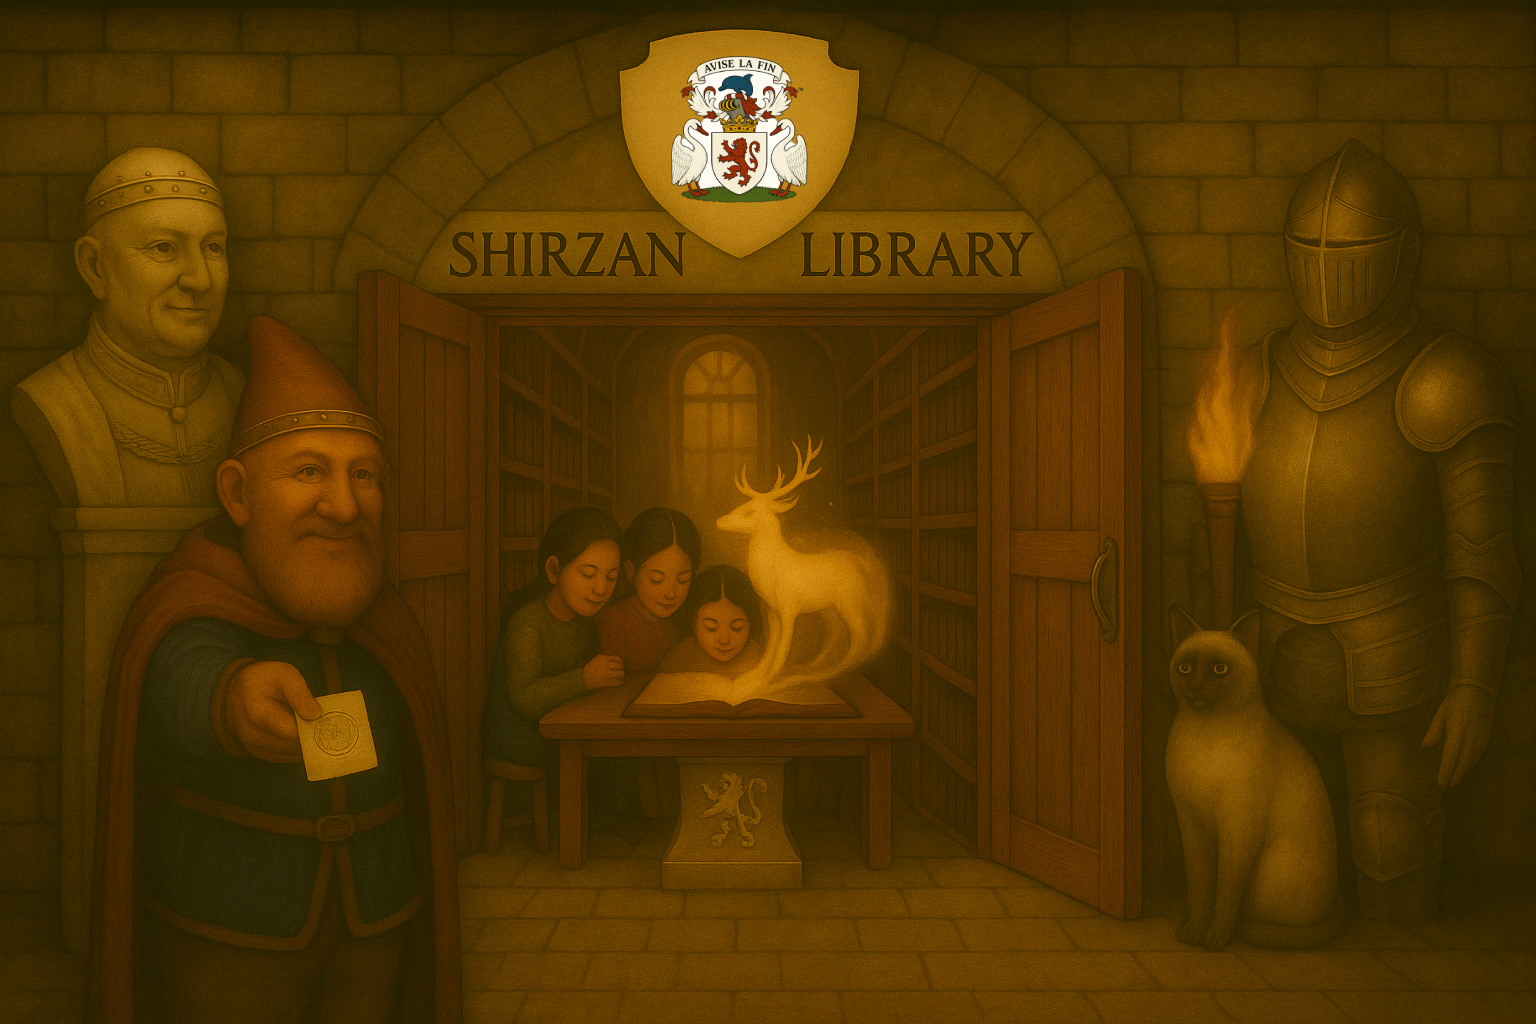
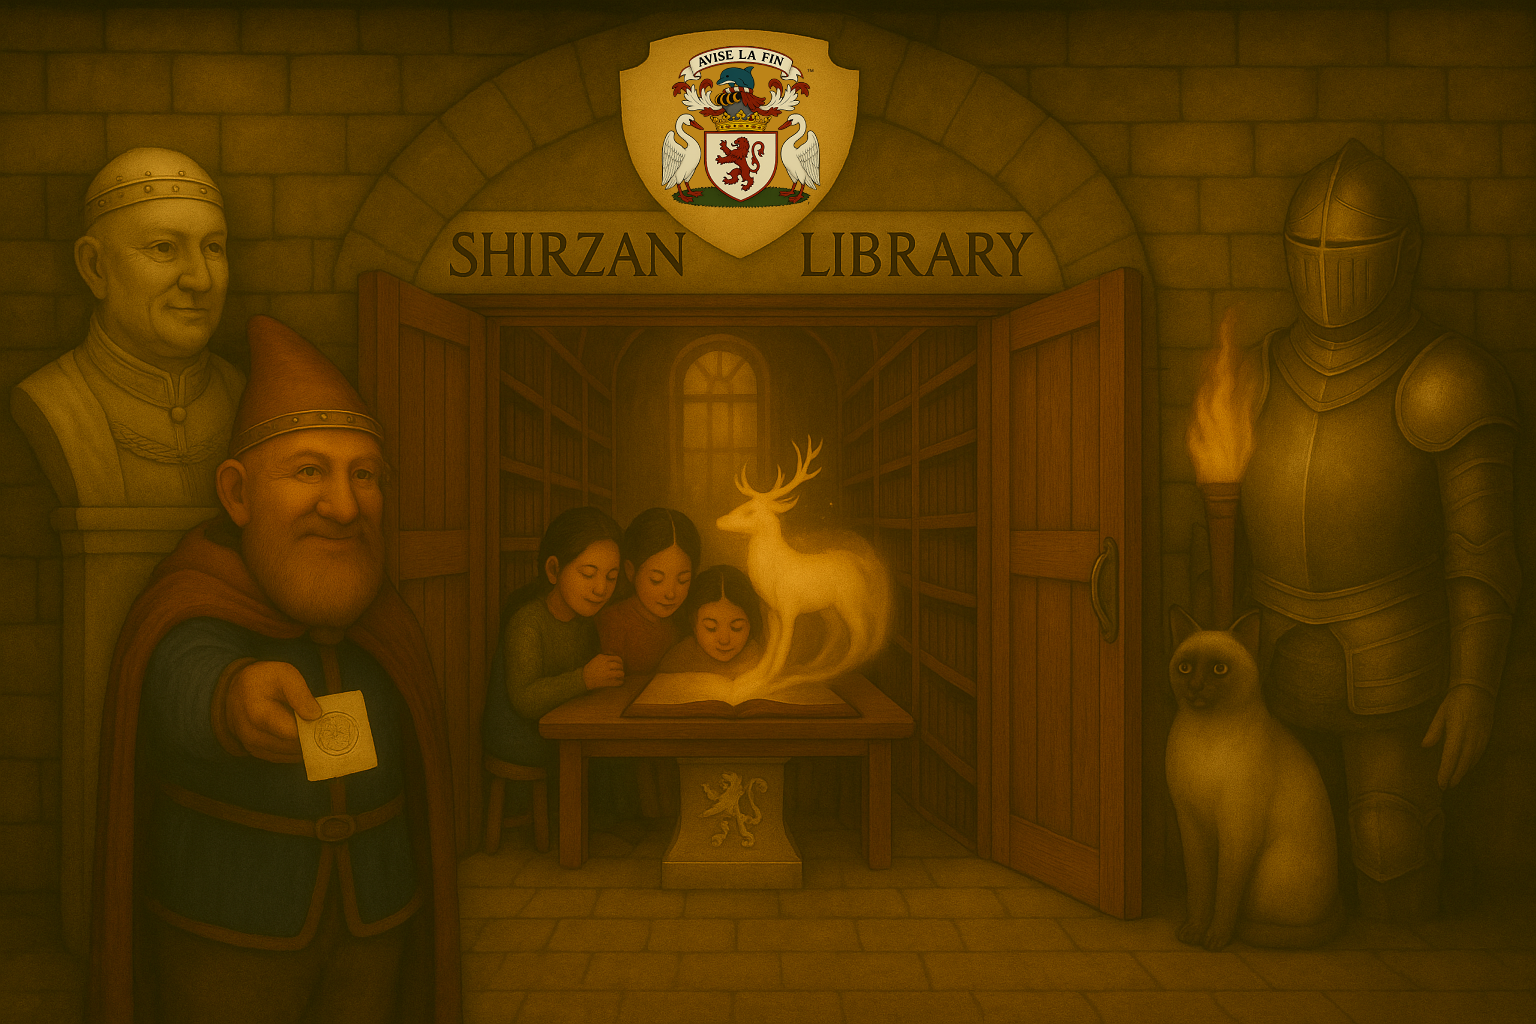
V2 stable: crest timing restored, one-hotspot exclusivity, click-off cancel, new crest art

Changed region(s): [[0.4062, 0.0312, 0.5312, 0.2188]]

diff --git a/library/css/library.css b/library/css/library.css
@@ -44,6 +44,33 @@ body{
 
 
 /* The wrapper anchors absolutely-positioned children */
+/* === Canon Crest (House of Shirzan) === */
+img.crest,
+.crest img {
+  width: clamp(120px, 15vw, 300px);
+  height: auto;
+  display: block;
+  margin: 0 auto;
+  background: transparent !important;
+  border: none;
+  box-shadow: none;
+}
+
+.crest-wrap {
+  position: relative;
+  display: inline-block;
+  line-height: 0;
+}
+
+.crest-wrap .tm {
+  position: absolute;
+  right: 4px;
+  top: 2px;
+  font: 700 .72rem/1 Georgia, Garamond, serif;
+  opacity: .75;
+  user-select: none;
+}
+
 #library-entrance{
   position: relative;
   width: min(1100px, 92vw);

diff --git a/library/restricted/oath.html b/library/restricted/oath.html
@@ -6,12 +6,14 @@
   <meta name="viewport" content="width=device-width, initial-scale=1">
   <style>
     body {
-      font-family: Georgia, Garamond, serif;
-      background: url('../assets/img/parchment.jpg') repeat;
-      background-size: 420px auto;
-      color: #2b1b09;
-      margin: 0; padding: 0;
-    }
+  font-family: Georgia, Garamond, serif;
+  background: url('../assets/img/parchment-background-canon.png') no-repeat center center fixed;
+  background-size: cover;
+  color: #2b1b09;
+  margin: 0;
+  padding: 0;
+}
+
     .wrap {
       max-width: 720px;
       margin: 6vh auto;

diff --git a/library/index.html b/library/index.html
@@ -9,6 +9,12 @@
   <link rel="stylesheet" href="css/library.css?v=5" />
   <link rel="preload" as="image" href="assets/img/waterfall-scene.jpg">
   <link rel="preload" href="assets/img/library-entrance.png" as="image">
+  <!-- === Canon Crest Icons === -->
+<link rel="icon" type="image/png" sizes="32x32" href="assets/icons/favicon-32.png">
+<link rel="icon" type="image/png" sizes="64x64" href="assets/icons/favicon-64.png">
+<link rel="apple-touch-icon" sizes="180x180" href="assets/icons/apple-touch-icon.png">
+<link rel="manifest" href="manifest.json">
+
 </head>
 
 <body>

diff --git a/library/toc.html b/library/toc.html
@@ -89,7 +89,7 @@
   <h2>📚 Teacher / Parent Portals</h2>
   <ul class="toc-list">
     <li>
-      <a href="https://shirzan-library.netlify.app/"
+      <a href="https://shirzan-library-v1.netlify.app/"
          target="_blank" rel="noopener noreferrer">
         Library intro and portals
       </a>
